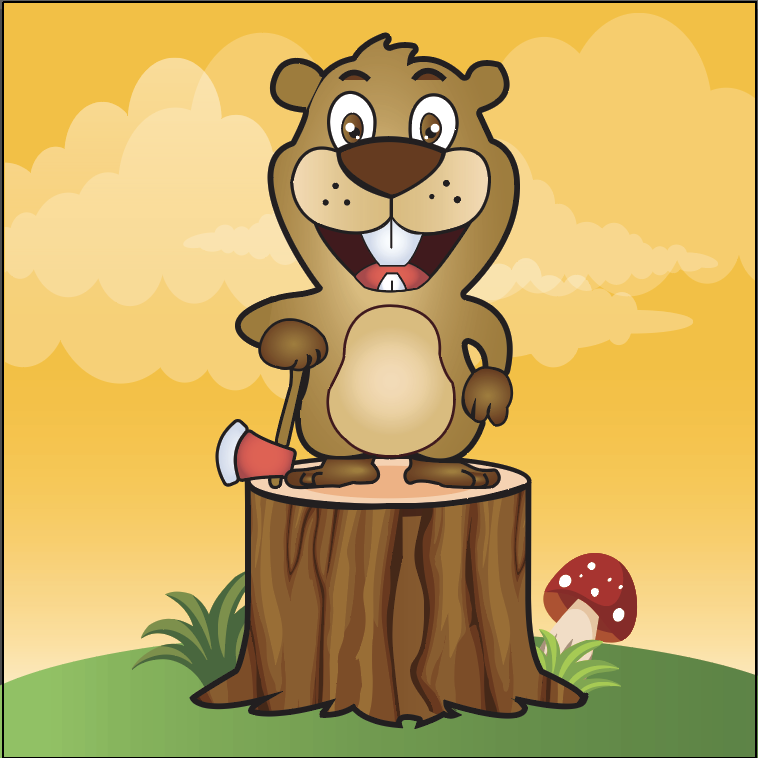
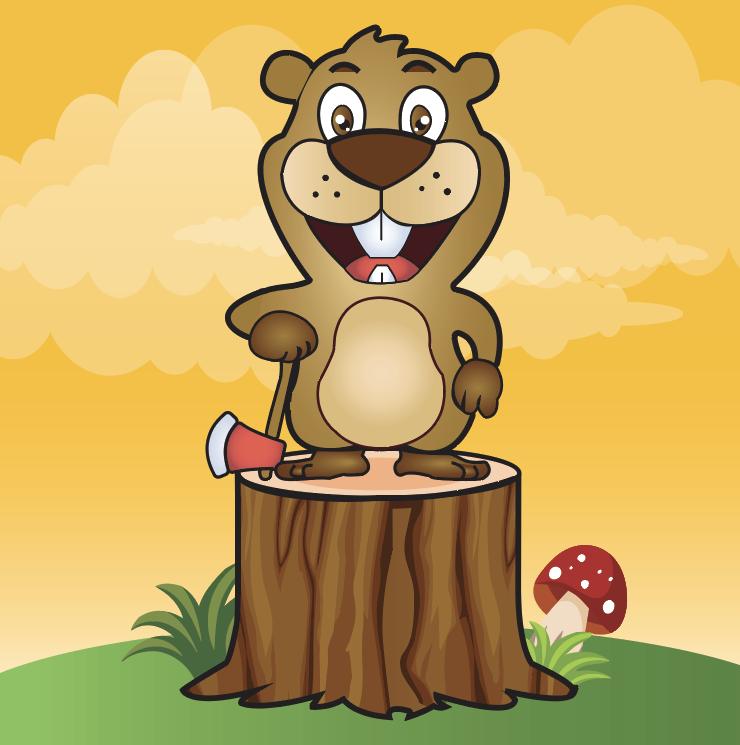
replace img

diff --git a/index.html b/index.html
@@ -101,7 +101,7 @@
             </div>
         </section>
 
-        <section id="beaver" class="beaver-cover">
+        <section class="beaver-cover">
             <h3>an avatar representing a beaver</h3>
             <div class="beaver">
                 <img src="images/beaver.png" class="beaver-img">
@@ -139,10 +139,10 @@
 
 
 
- <section>
+ <section class="reddragon-cover">
     <h4>red dragon</h4>
     <div class="red-dragon">
-        <img src="images/red-dragon.png" class="reddragon-img">
+        <img src="images/red-dragon.jpg" class="reddragon-img">
         <img src="images/red-dragon-1.png" class="reddragon-img">
         <div>
             <p>red dragon store began by identifying a core problem users were facing which is shopping. my goal was to recreate a web for the users problem!</p>
@@ -381,7 +381,7 @@
 
         <!--Emoji-->
         <section class="emoji-cover">
-            <h3>release stress right here</h3>
+            <h3>fun</h3>
                 <section id="emoji-gallery" class="emoji-gallery"></section>
                 <script src="script.js"></script>
         </section>

diff --git a/css/style.css b/css/style.css
@@ -168,7 +168,7 @@ h3 {
 
 /* beaver */
 .beaver-cover {
-    background: #630404;
+    background: #d67e37;
     padding: 20px;
 }
 
@@ -198,6 +198,11 @@ h3 {
 }
 
 /* red-dragon */
+.reddragon-cover {
+    background: #a6a5a5;
+    padding: 20px;
+
+}
 .red-dragon {
     display: flex;
     align-items: center;
@@ -207,7 +212,6 @@ h3 {
 
 .red-dragon img {
     max-width: 25%;
-    border-radius: 5%;
     padding: 0px 20px 20px 20px;
 }
 
